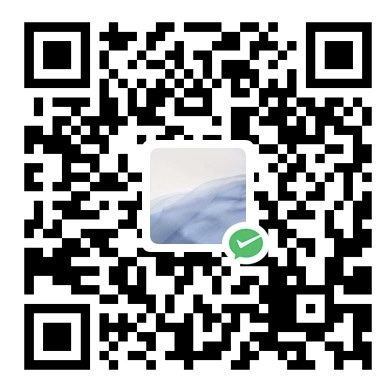
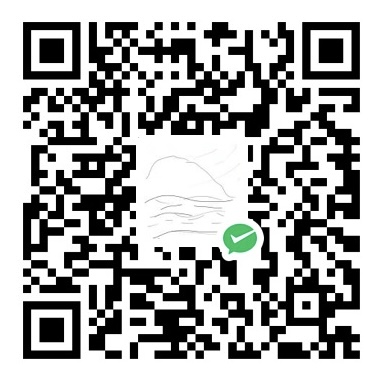
fix: replace WeChat payment QR code

diff --git a/public/aboutus.html b/public/aboutus.html
@@ -201,7 +201,7 @@
       <div class="pay-grid">
         <figure class="pay-card" data-qr="wechat">
           <figcaption>微信</figcaption>
-          <img class="qr-image" src="wechat-pay.jpeg" alt="微信收款二维码" width="390" height="390">
+          <img class="qr-image" src="wechat-pay.jpeg" alt="微信收款二维码" width="382" height="382">
         </figure>
         <figure class="pay-card" data-qr="alipay">
           <figcaption>支付宝</figcaption>
